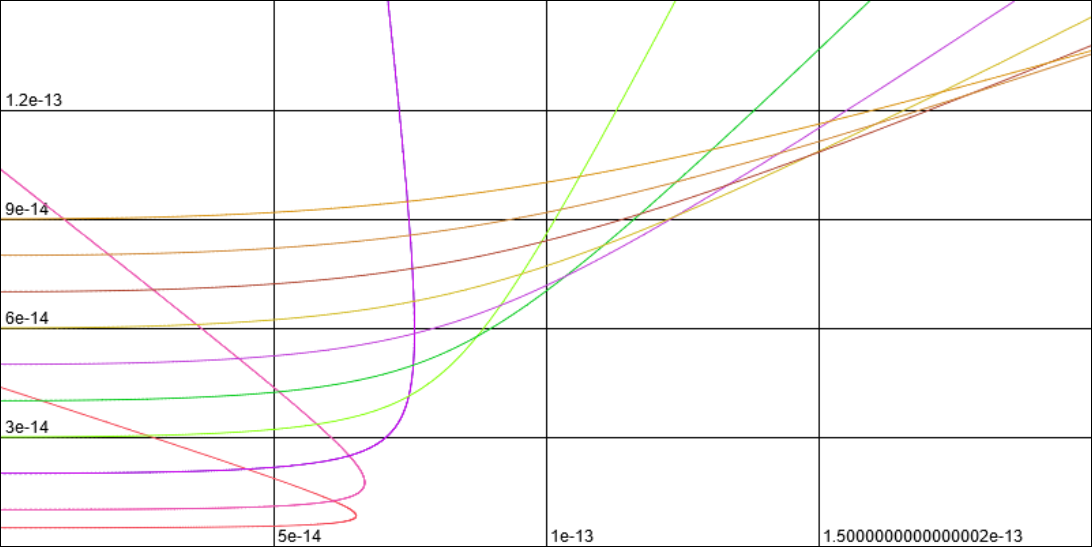
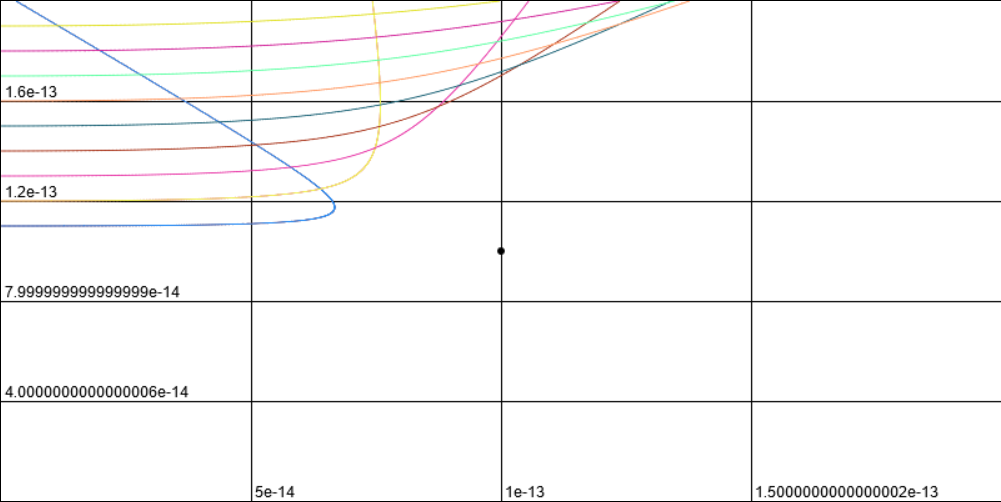
Add images
Add dependencies

diff --git a/static/rutherford-experiments/main.js b/static/rutherford-experiments/main.js
@@ -7,7 +7,7 @@ const canvasParams = {
     widthpx: 800, 
     heightpx: 400,
     physicalWidth: 2e-13, 
-    physicalHeight: 1.5e-13, 
+    physicalHeight: 2e-13, 
     xLines: 4, 
     yLines: 5, 
     negativeY: 0,
@@ -22,13 +22,13 @@ const static = {
 }
 
 const gold = {
-    y: 0,
+    y: 1e-13,
     x: 1e-13,
     q: 79 * static.e,
 }
 
 const particle = {
-    y: 1e-14,
+    y: 1e-14 + 1e-13,
     x: 0,
     Ux: 1e7,
     Uy: 0,
@@ -65,6 +65,13 @@ function calcPositions(particle){
 function drawGrid(canvas, canvasParams) {
     const ctx = canvas.getContext("2d");
     const cp = canvasParams;
+
+    // draw gold
+    ctx.beginPath();
+        ctx.fillStyle = "#000000";
+        ctx.arc(400, 200, 3, 0, 2 * Math.PI, true);
+        ctx.fill();
+    ctx.closePath();
 
     //ctx.clearRect(0, 0, cp.widthpx, cp.heightpx);
     ctx.font = "12px sans-serif";
@@ -129,9 +136,20 @@ function main(){
     drawGrid(canvas, canvasParams);
 
     let particleClone = particle;
-    let particleVar = [5e-15, 1e-14, 1e-14, 2e-14, 2e-14, 3e-14, 4e-14, 5e-14, 6e-14, 7e-14, 8e-14, 9e-14]; // particle.y now // actually b
+    let particleVar = [1e-14, 1e-14, 2e-14, 2e-14, 3e-14, 4e-14, 5e-14, 6e-14, 7e-14, 8e-14, 9e-14]; // particle.y now // actually b
+    
+    // particleVar = [1, 2, 3, 4, 5, 10]; // particle.q
+    // particleVar = [0.5e7, 0.7e7, 1e7, 1.5e7, 2e7, 3e7]; // particle.Ux
+    // particleVar = [200, 79, 30, 20, 10]; // gold.q
+    // particleVar = [10e-27, 8e-27, 6.642156264e-27, 6e-27, 4e-27, 2e-27]; // particle.m
+    
     for (let j = 0; j < particleVar.length; j++){
-        particleClone.y = particleVar[j];
+        particleClone.y = particleVar[j] + 1e-13;
+        // particleClone.q = particleVar[j] * static.e;
+        // particleClone.Ux = particleVar[j];
+        // gold.q = particleVar[j] * static.e;
+        // particleClone.m = particleVar[j];
+        
         const points = calcPositions(particleClone);
 
         /**
